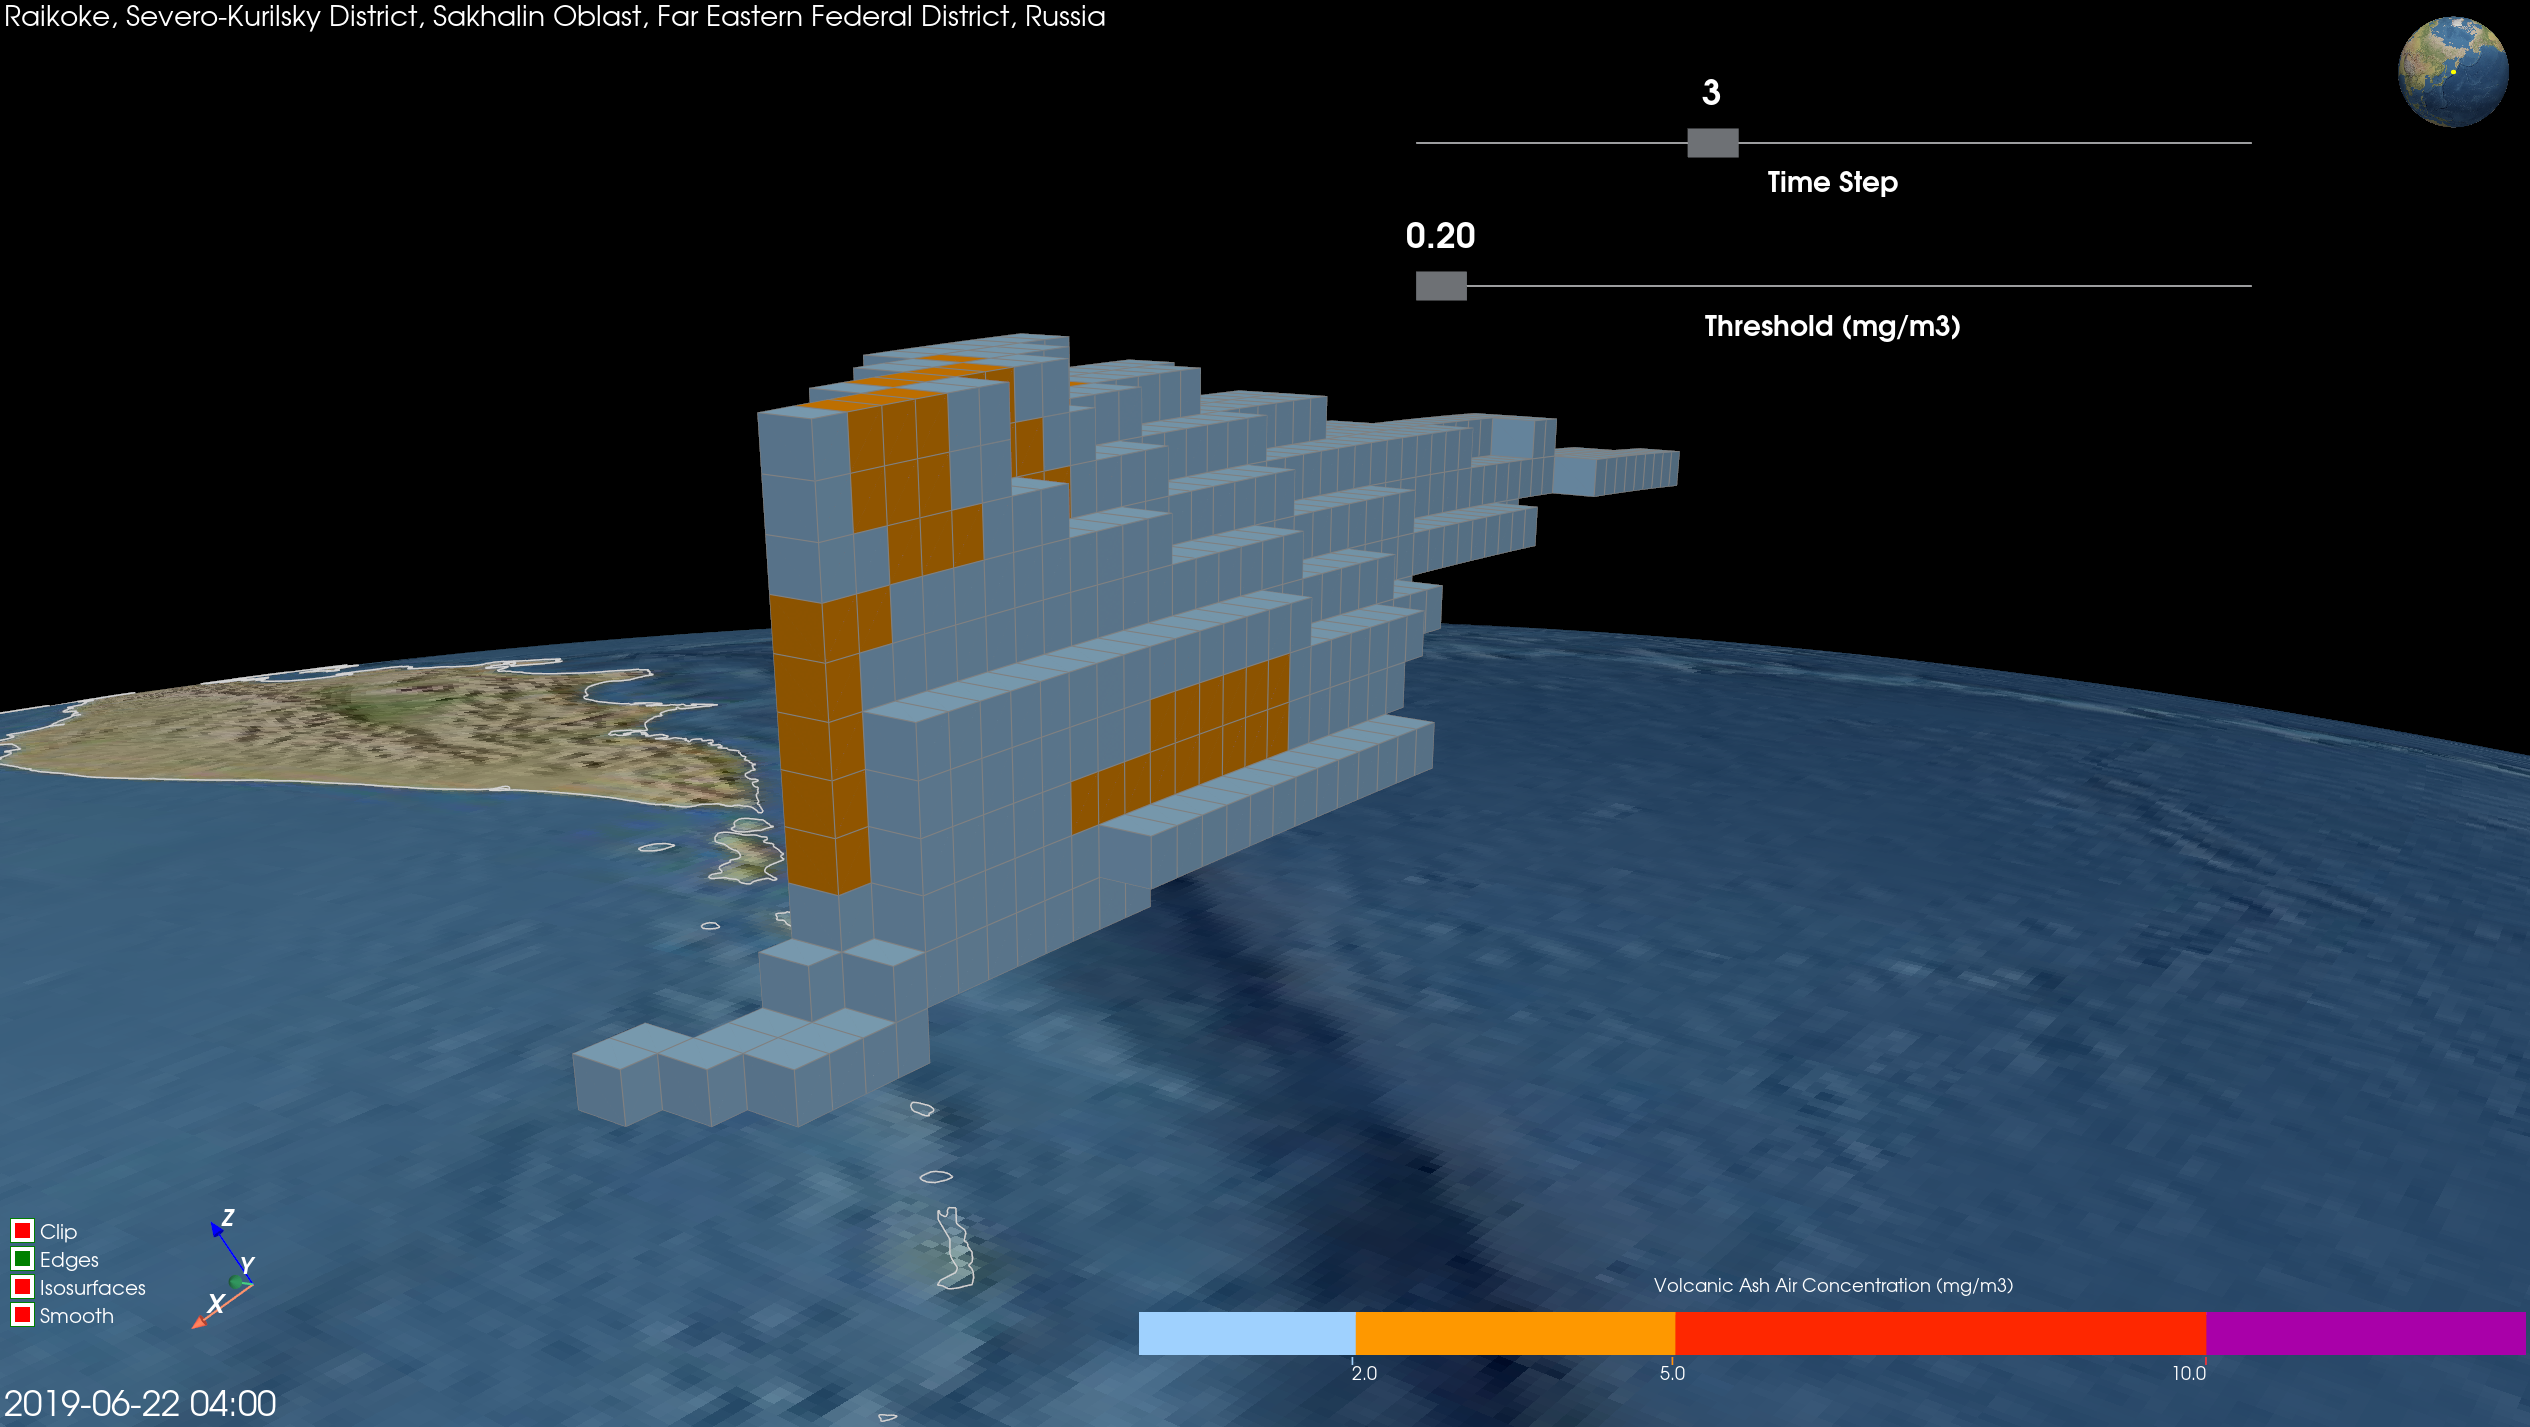
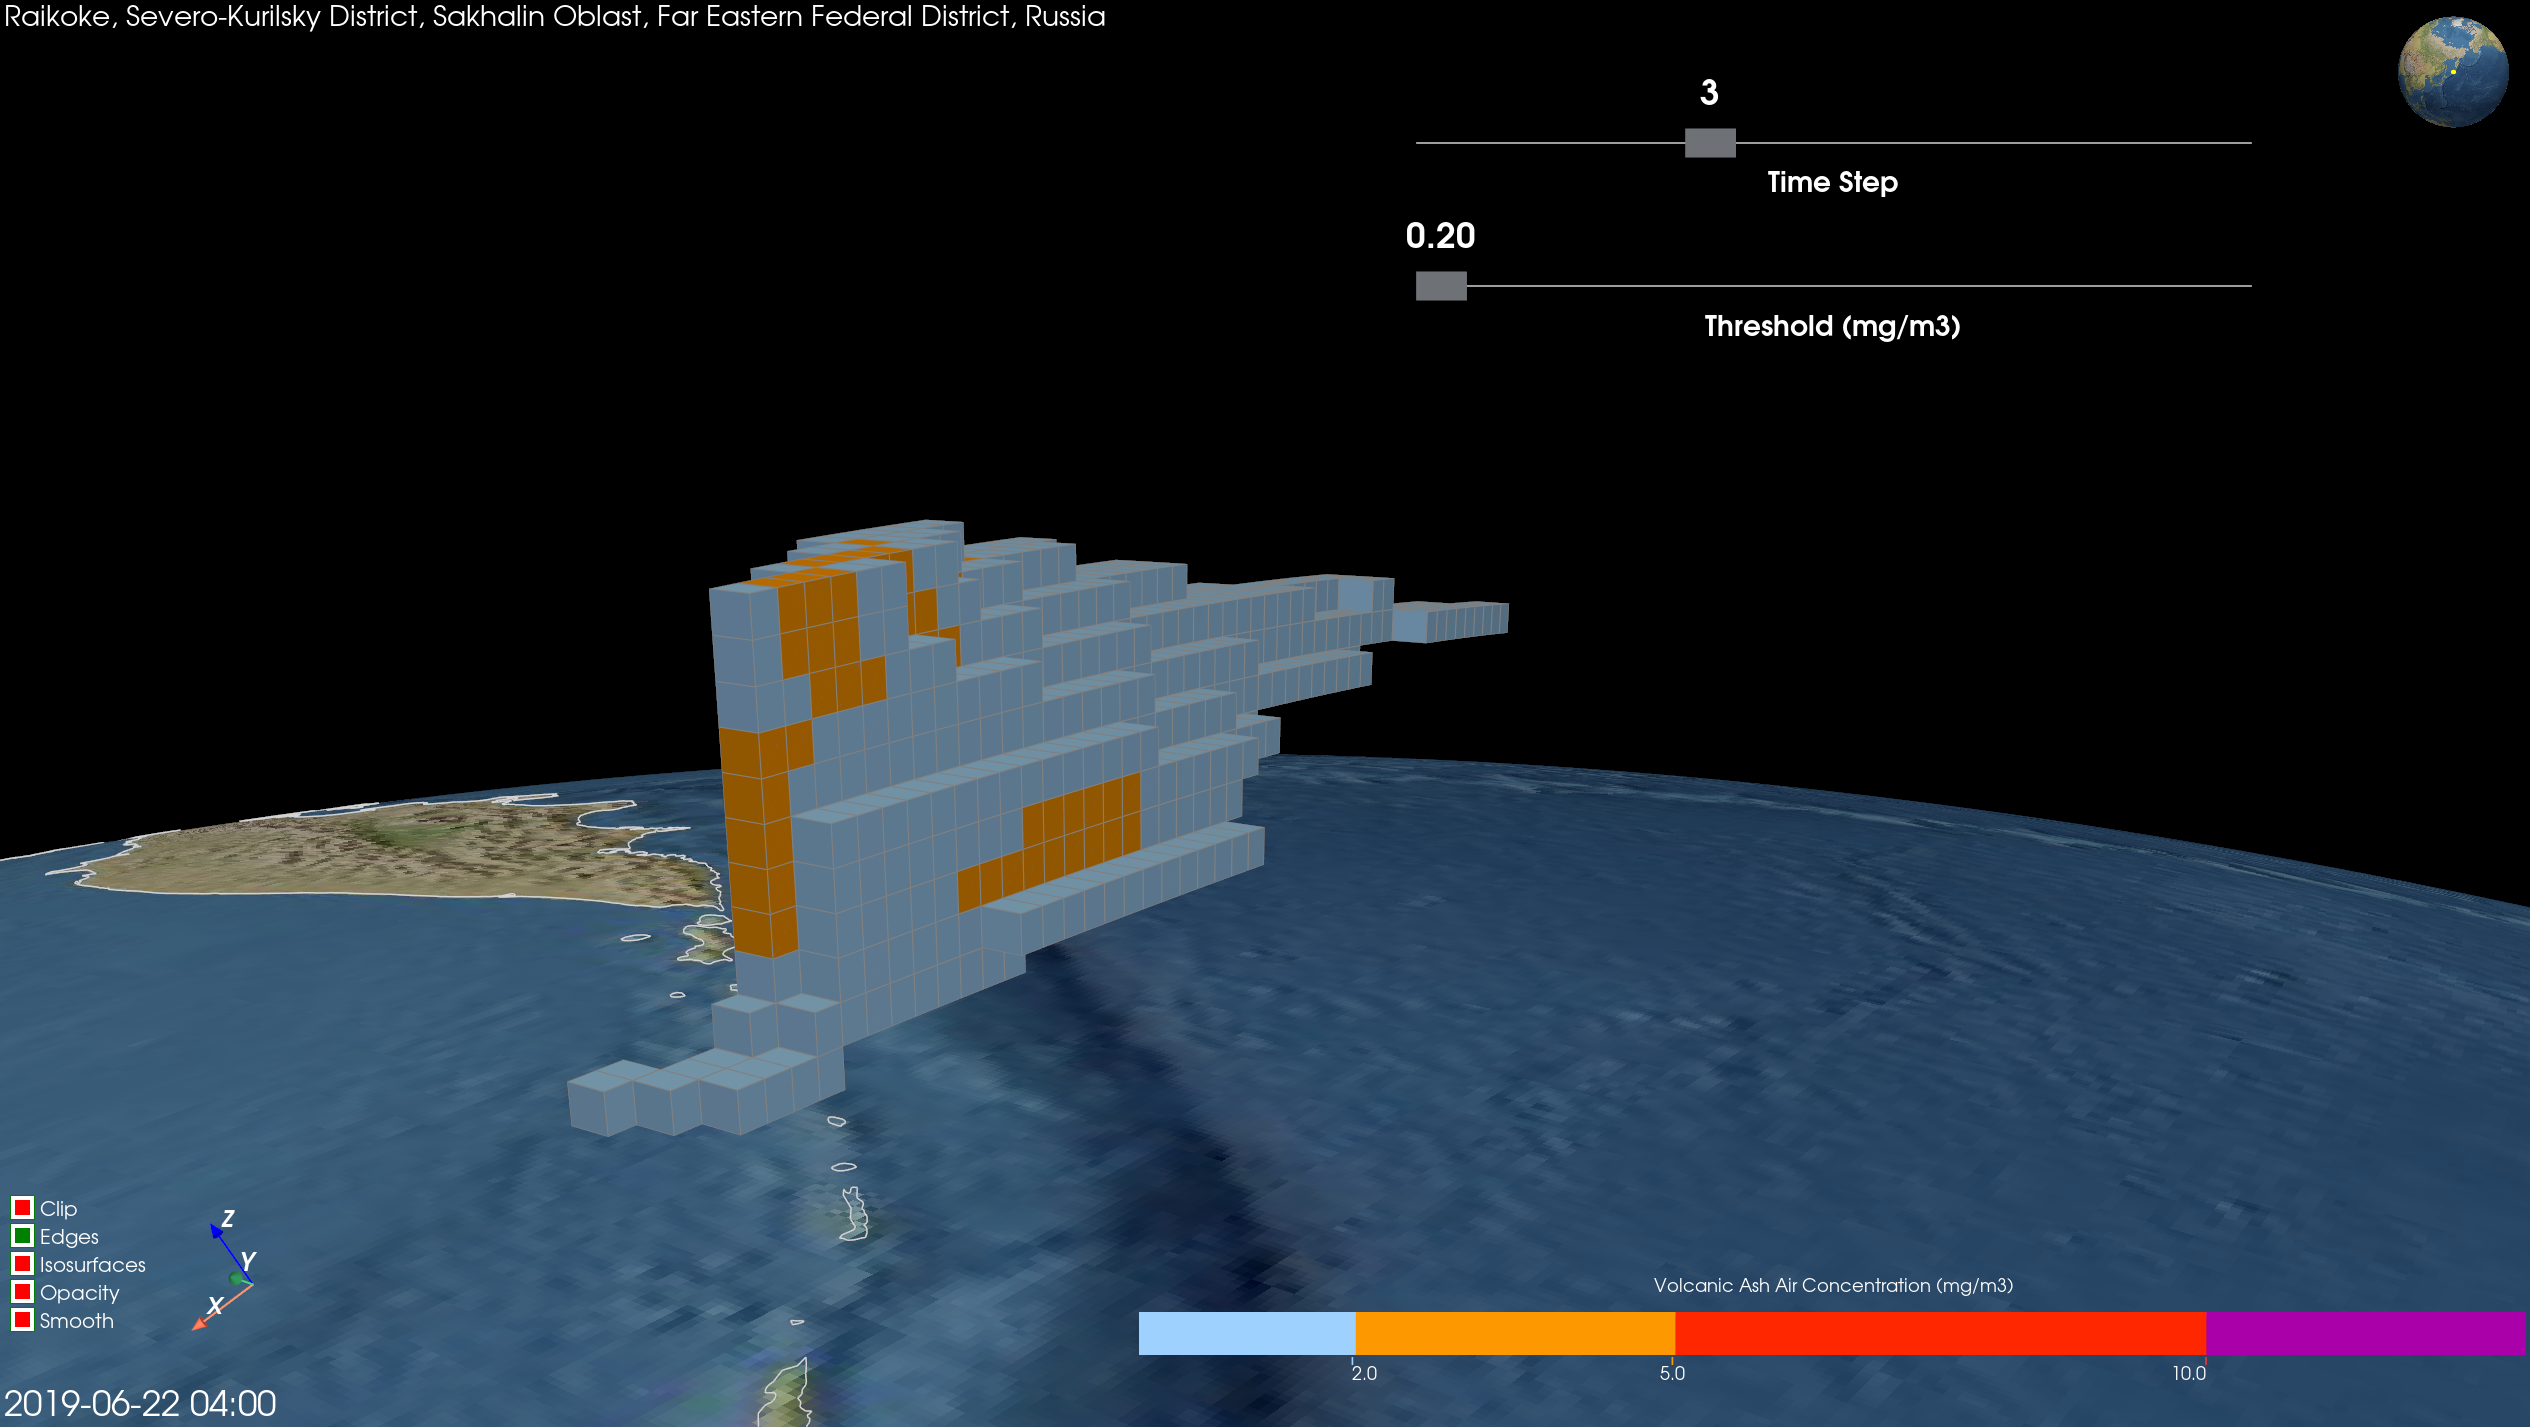
add opacity checkbox

diff --git a/raikoke/main.py b/raikoke/main.py
@@ -22,6 +22,7 @@ reset_clip = False
 show_clip = False
 show_edges = True
 show_isosurfaces = False
+show_opacity = False
 show_smooth = False
 threshold = 0.2
 isosurfaces = 200
@@ -205,6 +206,14 @@ def checkbox_isosurfaces(flag: bool) -> None:
     if not show_clip:
         actor_threshold.GetRepresentation().SetVisibility(not show_isosurfaces)
         callback_render(None)
+
+
+def checkbox_opacity(flag: bool) -> None:
+    global show_opacity
+    global actor_base
+
+    show_opacity = bool(flag)
+    actor_base.GetProperty().SetOpacity(0.5 if show_opacity else 1.0)
 
 
 def checkbox_smooth(flag: bool) -> None:
@@ -423,7 +432,7 @@ geolocator = Nominatim(user_agent="geovista")
 location = geolocator.geocode("Raikoke", language="en")
 
 p.add_points(xs=location.longitude, ys=location.latitude, render_points_as_spheres=True, color="yellow", point_size=10)
-p.add_base_layer(texture=geovista.natural_earth_1(), zlevel=0, resolution="c192")
+actor_base = p.add_base_layer(texture=geovista.natural_earth_1(), zlevel=0, resolution="c192")
 p.add_coastlines(color="lightgray")
 p.add_axes(color=color)
 
@@ -568,6 +577,23 @@ actor_checkbox_smooth = p.add_checkbox_button_widget(
 )
 p.add_text(
     "Smooth",
+    position=(x + size + offset, y),
+    font_size=font_size,
+    color=color,
+)
+
+y += size + pad
+
+actor_checkbox_opacity = p.add_checkbox_button_widget(
+    checkbox_opacity,
+    value=show_opacity,
+    color_on="green",
+    color_off="red",
+    size=size,
+    position=(x, y),
+)
+p.add_text(
+    "Opacity",
     position=(x + size + offset, y),
     font_size=font_size,
     color=color,
